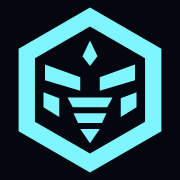
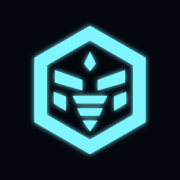
Iconos: variante recortable con zona segura y cache-busting
El icono estaba declarado "any maskable" con el hexagono tocando el borde, asi
que al guardar la pagina en la pantalla de inicio Android le cortaba las puntas.

- se separan los dos usos: icon-192/512 con purpose "any" (aprovechan todo el
  cuadro) e icon-maskable-192/512 con purpose "maskable" y la marca al 80%, que
  cabe entera en el circulo de recorte.
- icon-180 (iOS) con algo de aire porque el sistema redondea las esquinas.
- se anaden los 192, que es el tamano que pide Android al instalar.
- ICON_V en el manifiesto y ?v=3 en los enlaces: el sistema cachea el icono de
  la pantalla de inicio con mucha fuerza y sin esto seguiria mostrando el viejo.
- el manifiesto declara id y scope para que la app instalada se identifique bien.

Claude-Session: https://claude.ai/code/session_01Siw7y7K8CBmGxqbBnTMzbq

diff --git a/app/web.py b/app/web.py
@@ -39,15 +39,27 @@ def create_app(store: Store, tokens: TokenStore, broker: Broker, brain=None) -> 
     if _static.is_dir():
         app.mount("/static", StaticFiles(directory=str(_static)), name="static")
 
+    ICON_V = "3"          # súbelo cada vez que cambie el icono
+
     @app.get("/manifest.webmanifest")
     async def manifest():
+        # ICON_V rompe la caché: el sistema operativo guarda el icono de la pantalla
+        # de inicio con mucha fuerza y sin esto seguiría enseñando el viejo.
         return JSONResponse({
             "name": "HYDRA Trading", "short_name": "HYDRA", "start_url": "/",
             "display": "standalone", "background_color": "#04070e", "theme_color": "#04070e",
+            "id": "/", "scope": "/",
             "icons": [
-                {"src": "/static/icon-180.png", "sizes": "180x180", "type": "image/png"},
-                {"src": "/static/icon-512.png", "sizes": "512x512", "type": "image/png",
-                 "purpose": "any maskable"},
+                # "any": ocupa todo el cuadro. "maskable": va con aire porque
+                # Android lo recorta a un círculo y se comería las puntas.
+                {"src": f"/static/icon-192.png?v={ICON_V}", "sizes": "192x192",
+                 "type": "image/png", "purpose": "any"},
+                {"src": f"/static/icon-512.png?v={ICON_V}", "sizes": "512x512",
+                 "type": "image/png", "purpose": "any"},
+                {"src": f"/static/icon-maskable-192.png?v={ICON_V}", "sizes": "192x192",
+                 "type": "image/png", "purpose": "maskable"},
+                {"src": f"/static/icon-maskable-512.png?v={ICON_V}", "sizes": "512x512",
+                 "type": "image/png", "purpose": "maskable"},
             ],
         })
     # aplica los parámetros y claves que el usuario haya ajustado desde la UI (persisten en el volumen)

diff --git a/app/ui.py b/app/ui.py
@@ -9,9 +9,9 @@ BRAIN_HTML = r"""<!doctype html>
 <meta charset="utf-8">
 <meta name="viewport" content="width=device-width, initial-scale=1, maximum-scale=1">
 <title>HYDRA · núcleo</title>
-<link rel="icon" type="image/png" href="/static/favicon.png">
-<link rel="apple-touch-icon" href="/static/icon-180.png">
-<link rel="manifest" href="/manifest.webmanifest">
+<link rel="icon" type="image/png" href="/static/favicon.png?v=3">
+<link rel="apple-touch-icon" sizes="180x180" href="/static/icon-180.png?v=3">
+<link rel="manifest" href="/manifest.webmanifest?v=3">
 <meta name="theme-color" content="#04070e">
 <meta name="apple-mobile-web-app-capable" content="yes">
 <meta name="mobile-web-app-capable" content="yes">
